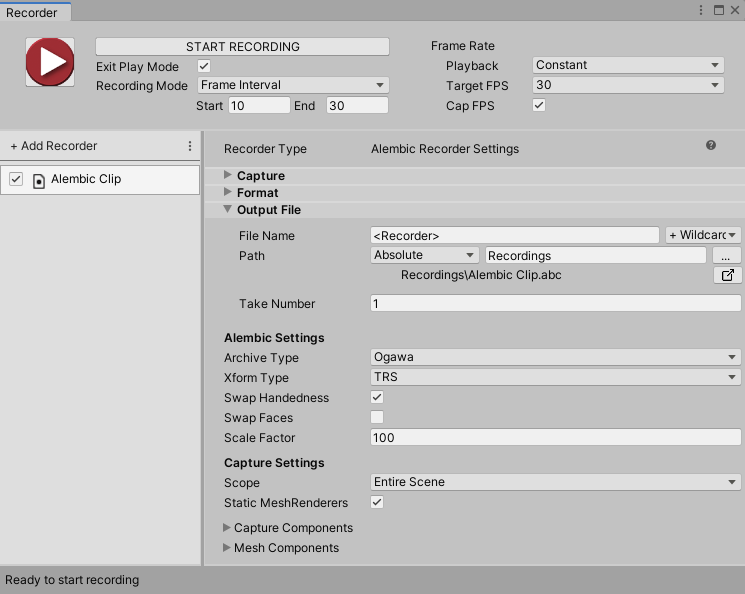
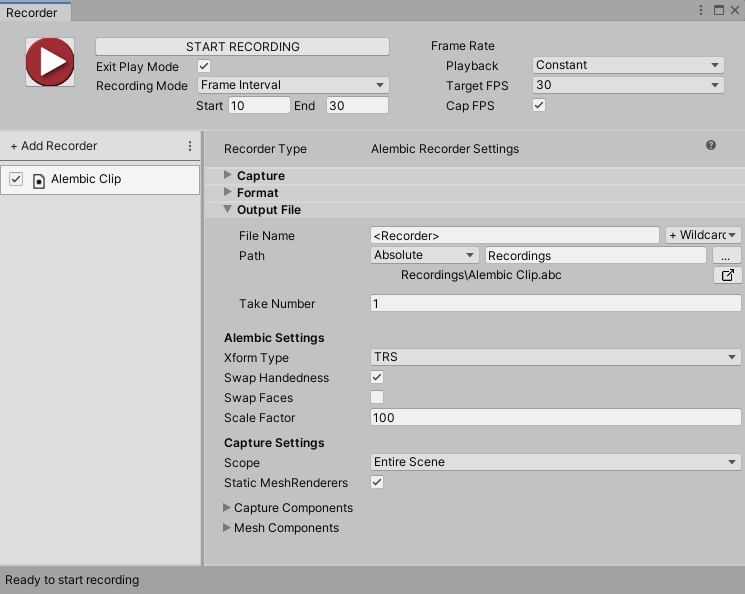
Remove mention of HDR5 setting from Alembic Recorder

Changed region(s): [[0.494, 0.5758, 1.0, 0.8788], [0.2779, 0.5758, 0.4631, 0.9394]]

diff --git a/com.unity.formats.alembic/Documentation~/ref_Recorder.md b/com.unity.formats.alembic/Documentation~/ref_Recorder.md
@@ -27,9 +27,6 @@ Use this section to define the properties of the Alembic output.
 
 | Property || Description |
 | :--- | :--- | :--- |
-| __Archive Type__ || Choose the Alembic format specification. |
-|| HDF5 | Common (now deprecated) hierarchical data format for Alembic. |
-|| Ogawa | This format produces smaller files and better performance than HDF5. This is the default format. |
 | __Xform Type__ || Choose the transform type. |
 || Matrix | Record the full transformation matrix. |
 || TRS | Record the TRS channels for position, rotation, scale of an object. This is the default transform type. |
